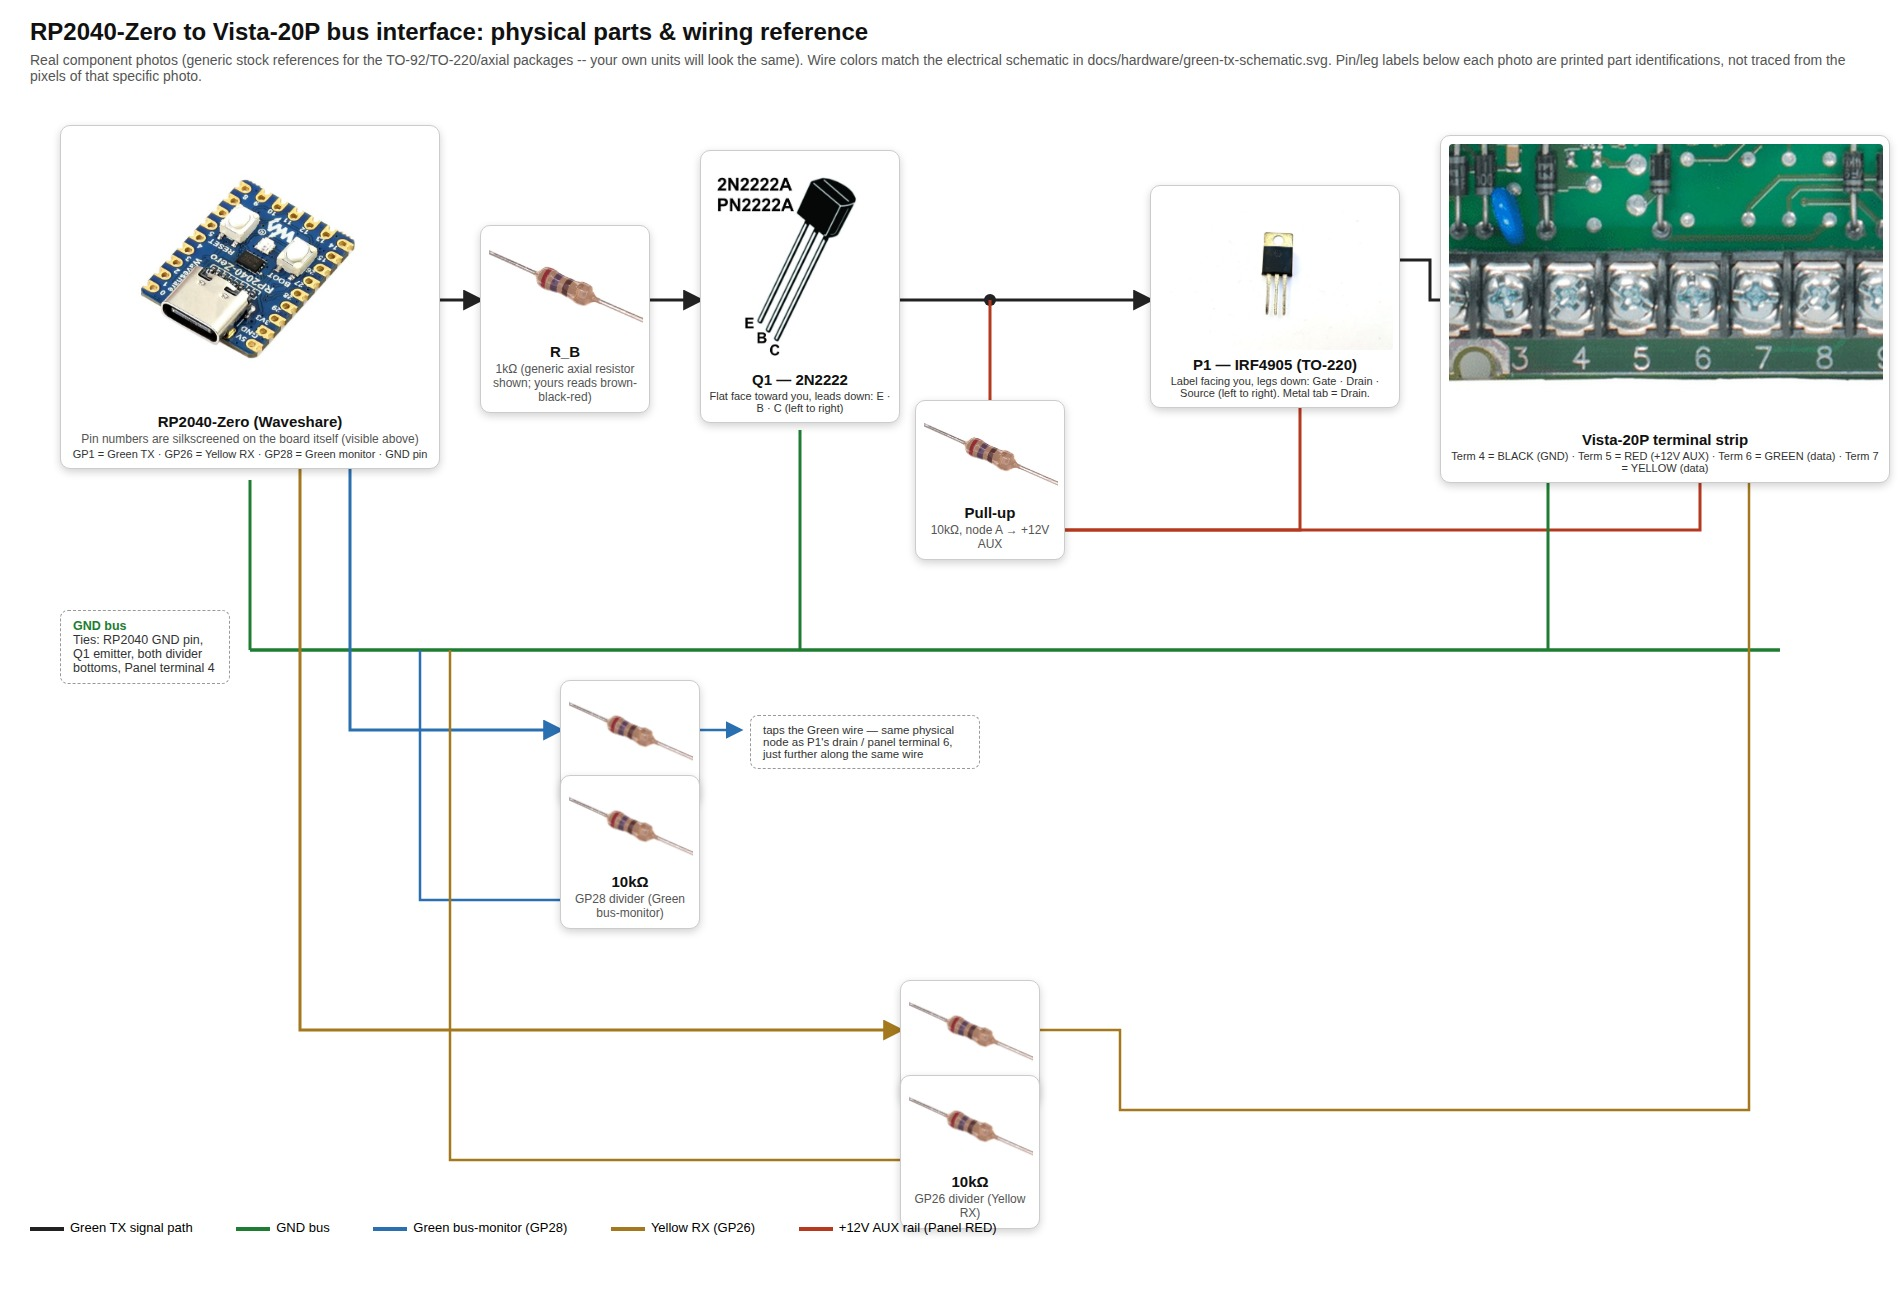
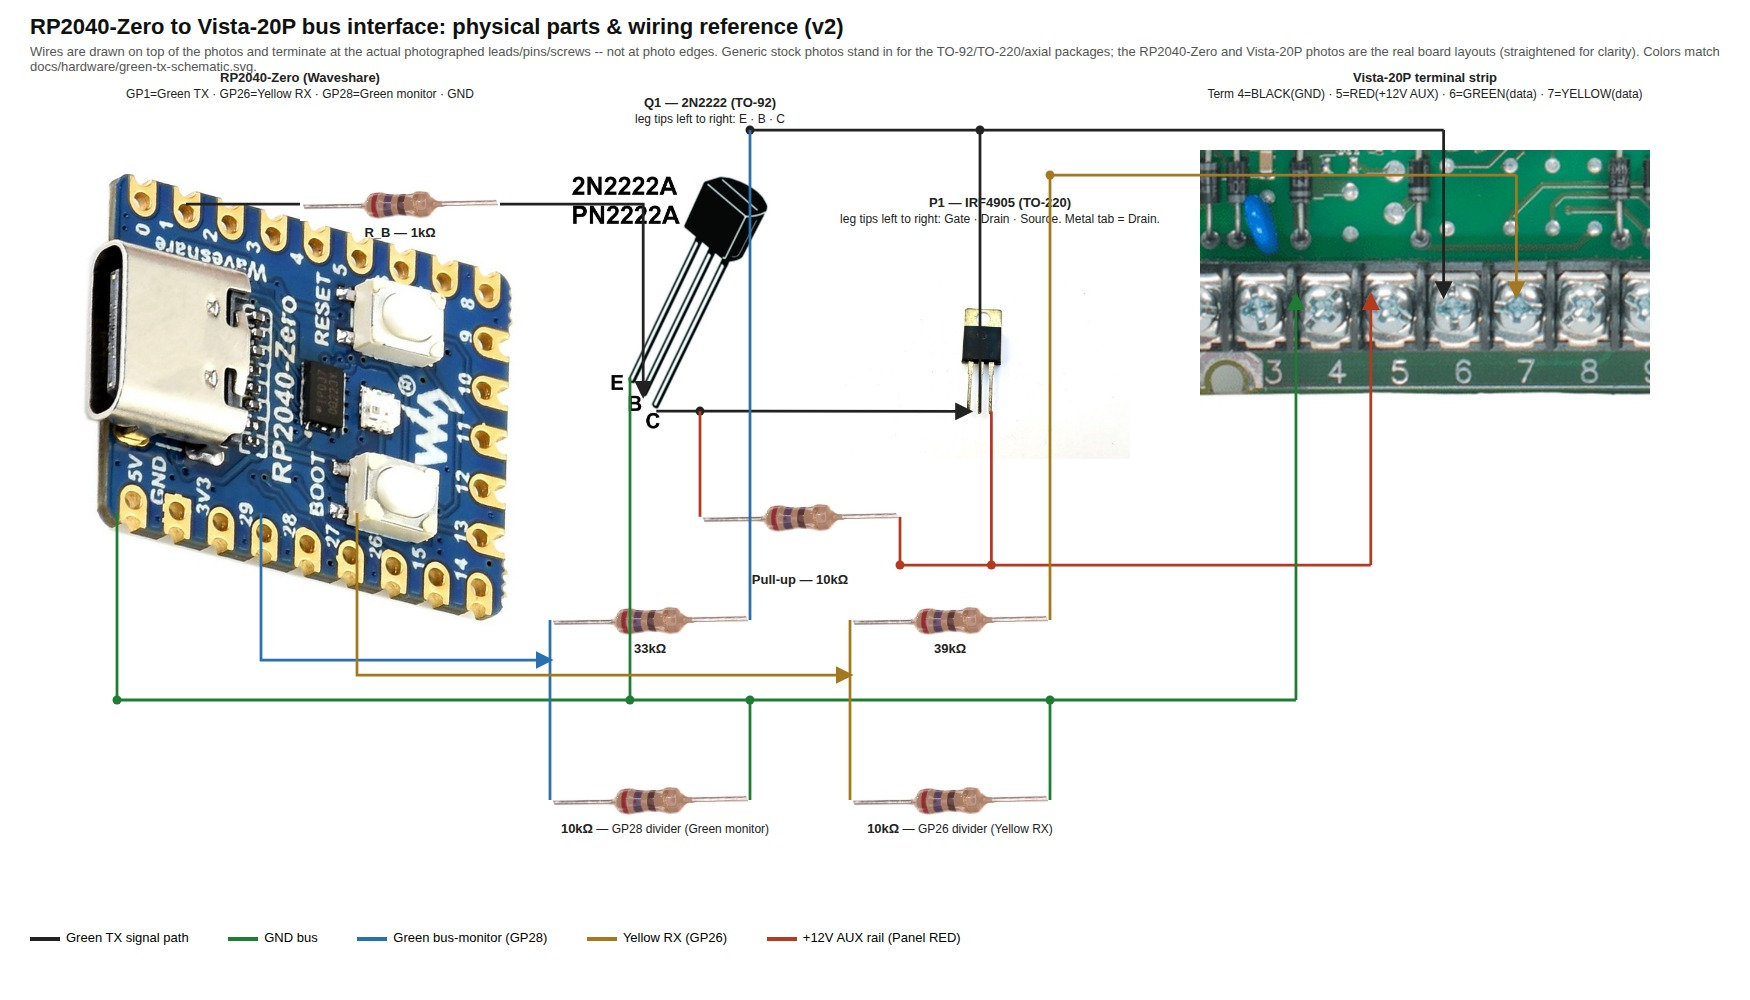
Rework photo reference diagram: wires terminate at actual leads (#81)
v1 drew wires stopping at photo bounding-box edges, not the parts
themselves. Rebuild with pixel-precise coordinates: straighten the
RP2040-Zero board and axial resistor photos, locate each component's
actual leg tips / pin holes / screw terminals, and draw wires on top
of the photos terminating exactly at those points (2N2222 E/B/C tips,
IRF4905 G/D/S tips, RP2040 GP1/GP26/GP28/GND pin holes, Vista-20P
terminal screws 4-7, resistor lead ends).

Claude-Session: https://claude.ai/code/session_01LoZdpHVGNxDdSZK8Eq1p6C

Changed region(s): [[0.0, 0.0, 1.0, 0.744], [0.0, 0.744, 0.9257, 0.961], [0.216, 0.868, 0.4629, 0.899]]

diff --git a/docs/hardware/green-tx-photo-reference.html b/docs/hardware/green-tx-photo-reference.html
@@ -6,174 +6,114 @@
   * { box-sizing: border-box; }
   body {
     margin: 0;
-    width: 1900px;
-    height: 1300px;
+    width: 1750px;
+    height: 1000px;
     background: #ffffff;
     font-family: Helvetica, Arial, sans-serif;
     position: relative;
   }
-  .title { position: absolute; left: 30px; top: 18px; font-size: 24px; font-weight: bold; color: #111; }
-  .subtitle { position: absolute; left: 30px; top: 52px; font-size: 14px; color: #555; width: 1840px; }
-  .card {
-    position: absolute;
-    background: #fff;
-    border: 1.5px solid #ccc;
-    border-radius: 10px;
-    box-shadow: 0 3px 8px rgba(0,0,0,0.18);
-    padding: 8px;
-    text-align: center;
-  }
-  .card img { display: block; border-radius: 4px; }
-  .card .name { font-weight: bold; font-size: 15px; color: #111; margin-top: 6px; }
-  .card .sub { font-size: 12px; color: #555; margin-top: 2px; }
-  .card .pin { font-size: 11px; color: #333; margin-top: 2px; }
-  .note { position: absolute; background: #fff; border: 1.5px dashed #999; border-radius: 8px; padding: 8px 12px; font-size: 12.5px; color: #333; text-align: left; }
-  svg.wires { position: absolute; left: 0; top: 0; width: 1900px; height: 1300px; }
-  .legend { position: absolute; left: 30px; top: 1220px; font-size: 13px; }
-  .legend .row { display: inline-block; margin-right: 40px; }
-  .legend .swatch { display: inline-block; width: 34px; height: 4px; vertical-align: middle; margin-right: 6px; }
+  .title { position: absolute; left: 30px; top: 14px; font-size: 22px; font-weight: bold; color: #111; }
+  .subtitle { position: absolute; left: 30px; top: 44px; font-size: 13px; color: #555; width: 1700px; }
+  img.part { position: absolute; display: block; }
+  .label { position: absolute; font-size: 12px; color: #222; text-align: center; line-height: 1.3; }
+  .label b { font-size: 13px; }
+  .legend { position: absolute; left: 30px; top: 930px; font-size: 13px; }
+  .legend .row { display: inline-block; margin-right: 36px; }
+  .legend .swatch { display: inline-block; width: 30px; height: 4px; vertical-align: middle; margin-right: 6px; }
+  svg.wires { position: absolute; left: 0; top: 0; width: 1750px; height: 1000px; pointer-events: none; }
 </style>
 </head>
 <body>
 
-  <div class="title">RP2040-Zero to Vista-20P bus interface: physical parts &amp; wiring reference</div>
-  <div class="subtitle">Real component photos (generic stock references for the TO-92/TO-220/axial packages -- your own units will look the same). Wire colors match the electrical schematic in docs/hardware/green-tx-schematic.svg. Pin/leg labels below each photo are printed part identifications, not traced from the pixels of that specific photo.</div>
+  <div class="title">RP2040-Zero to Vista-20P bus interface: physical parts &amp; wiring reference (v2)</div>
+  <div class="subtitle">Wires are drawn on top of the photos and terminate at the actual photographed leads/pins/screws -- not at photo edges. Generic stock photos stand in for the TO-92/TO-220/axial packages; the RP2040-Zero and Vista-20P photos are the real board layouts (straightened for clarity). Colors match docs/hardware/green-tx-schematic.svg.</div>
 
-  <svg class="wires" viewBox="0 0 1900 1300">
+  <!-- ===== Photos (drawn first, wires layer on top of them) ===== -->
+
+  <img class="part" src="photos/rp2040-zero.jpg" style="left:60px; top:150px; width:480px; height:498px;">
+  <div class="label" style="left:60px; top:70px; width:480px;"><b>RP2040-Zero (Waveshare)</b><br>GP1=Green TX &middot; GP26=Yellow RX &middot; GP28=Green monitor &middot; GND</div>
+
+  <img class="part" src="photos/resistor.jpg" style="left:300px; top:187px; width:200px; height:33.6px;">
+  <div class="label" style="left:300px; top:225px; width:200px;"><b>R_B &mdash; 1k&#937;</b></div>
+
+  <img class="part" src="photos/2n2222.jpg" style="left:560px; top:150px; width:260px; height:291.8px;">
+  <div class="label" style="left:540px; top:95px; width:340px;"><b>Q1 &mdash; 2N2222 (TO-92)</b><br>leg tips left to right: E &middot; B &middot; C</div>
+
+  <img class="part" src="photos/resistor.jpg" style="left:700px; top:500px; width:200px; height:33.6px;">
+  <div class="label" style="left:700px; top:572px; width:200px;"><b>Pull-up &mdash; 10k&#937;</b></div>
+
+  <img class="part" src="photos/to220-mosfet.jpg" style="left:830px; top:259px; width:300px; height:199.8px;">
+  <div class="label" style="left:825px; top:195px; width:350px;"><b>P1 &mdash; IRF4905 (TO-220)</b><br>leg tips left to right: Gate &middot; Drain &middot; Source. Metal tab = Drain.</div>
+
+  <img class="part" src="photos/vista20p-terminals.jpg" style="left:1200px; top:150px; width:450px; height:291.2px;">
+  <div class="label" style="left:1200px; top:70px; width:450px;"><b>Vista-20P terminal strip</b><br>Term 4=BLACK(GND) &middot; 5=RED(+12V AUX) &middot; 6=GREEN(data) &middot; 7=YELLOW(data)</div>
+
+  <img class="part" src="photos/resistor.jpg" style="left:550px; top:603.2px; width:200px; height:33.6px;">
+  <div class="label" style="left:550px; top:641px; width:200px;"><b>33k&#937;</b></div>
+  <img class="part" src="photos/resistor.jpg" style="left:550px; top:783.2px; width:200px; height:33.6px;">
+  <div class="label" style="left:550px; top:821px; width:230px;"><b>10k&#937;</b> &mdash; GP28 divider (Green monitor)</div>
+
+  <img class="part" src="photos/resistor.jpg" style="left:850px; top:603.2px; width:200px; height:33.6px;">
+  <div class="label" style="left:850px; top:641px; width:200px;"><b>39k&#937;</b></div>
+  <img class="part" src="photos/resistor.jpg" style="left:850px; top:783.2px; width:200px; height:33.6px;">
+  <div class="label" style="left:850px; top:821px; width:220px;"><b>10k&#937;</b> &mdash; GP26 divider (Yellow RX)</div>
+
+  <!-- ===== Wires (drawn ON TOP of photos, terminating exactly at leg/pin/screw pixels) ===== -->
+  <svg class="wires" viewBox="0 0 1750 1000">
     <defs>
-      <marker id="a" viewBox="0 0 10 10" refX="8" refY="5" markerWidth="7" markerHeight="7" orient="auto-start-reverse">
-        <path d="M0,0 L10,5 L0,10 z" fill="#222"/>
-      </marker>
-      <marker id="aGreen" viewBox="0 0 10 10" refX="8" refY="5" markerWidth="7" markerHeight="7" orient="auto-start-reverse">
-        <path d="M0,0 L10,5 L0,10 z" fill="#1e7d32"/>
-      </marker>
-      <marker id="aBlue" viewBox="0 0 10 10" refX="8" refY="5" markerWidth="7" markerHeight="7" orient="auto-start-reverse">
-        <path d="M0,0 L10,5 L0,10 z" fill="#2a6fb0"/>
-      </marker>
-      <marker id="aGold" viewBox="0 0 10 10" refX="8" refY="5" markerWidth="7" markerHeight="7" orient="auto-start-reverse">
-        <path d="M0,0 L10,5 L0,10 z" fill="#a3781f"/>
-      </marker>
-      <marker id="aRed" viewBox="0 0 10 10" refX="8" refY="5" markerWidth="7" markerHeight="7" orient="auto-start-reverse">
-        <path d="M0,0 L10,5 L0,10 z" fill="#b5391f"/>
-      </marker>
+      <marker id="a" viewBox="0 0 10 10" refX="8" refY="5" markerWidth="6.5" markerHeight="6.5" orient="auto-start-reverse"><path d="M0,0 L10,5 L0,10 z" fill="#222"/></marker>
+      <marker id="aGreen" viewBox="0 0 10 10" refX="8" refY="5" markerWidth="6.5" markerHeight="6.5" orient="auto-start-reverse"><path d="M0,0 L10,5 L0,10 z" fill="#1e7d32"/></marker>
+      <marker id="aBlue" viewBox="0 0 10 10" refX="8" refY="5" markerWidth="6.5" markerHeight="6.5" orient="auto-start-reverse"><path d="M0,0 L10,5 L0,10 z" fill="#2a6fb0"/></marker>
+      <marker id="aGold" viewBox="0 0 10 10" refX="8" refY="5" markerWidth="6.5" markerHeight="6.5" orient="auto-start-reverse"><path d="M0,0 L10,5 L0,10 z" fill="#a3781f"/></marker>
+      <marker id="aRed" viewBox="0 0 10 10" refX="8" refY="5" markerWidth="6.5" markerHeight="6.5" orient="auto-start-reverse"><path d="M0,0 L10,5 L0,10 z" fill="#b5391f"/></marker>
     </defs>
 
-    <!-- ===== Main Green-TX row, all cards vertically centered on y=300 ===== -->
-    <!-- GP1 -> R_B -->
-    <path d="M 440,300 L 480,300" stroke="#222" stroke-width="3" fill="none" marker-end="url(#a)"/>
-    <!-- R_B -> Q1 base -->
-    <path d="M 650,300 L 700,300" stroke="#222" stroke-width="3" fill="none" marker-end="url(#a)"/>
-    <!-- Q1 collector -> node A -->
-    <path d="M 900,300 L 990,300" stroke="#222" stroke-width="3" fill="none"/>
-    <circle cx="990" cy="300" r="6" fill="#222"/>
-    <!-- node A -> P1 gate -->
-    <path d="M 990,300 L 1150,300" stroke="#222" stroke-width="3" fill="none" marker-end="url(#a)"/>
-    <!-- P1 drain -> panel GREEN terminal (term 6) -->
-    <path d="M 1400,260 L 1430,260 L 1430,300 L 1681,300" stroke="#222" stroke-width="3" fill="none" marker-end="url(#a)"/>
+    <!-- Black: Green TX signal path -->
+    <path d="M 186,204 L 300,204" stroke="#222" stroke-width="2.75" fill="none"/>
+    <path d="M 500,204 L 643.2,204 L 643.2,395.1" stroke="#222" stroke-width="2.75" fill="none" marker-end="url(#a)"/>
+    <path d="M 656.3,411.1 L 700,411.1" stroke="#222" stroke-width="2.75" fill="none"/>
+    <circle cx="700" cy="411.1" r="4.5" fill="#222"/>
+    <path d="M 700,411.1 L 969.5,411.4" stroke="#222" stroke-width="2.75" fill="none" marker-end="url(#a)"/>
+    <path d="M 980,412.6 L 980,130" stroke="#222" stroke-width="2.75" fill="none"/>
+    <path d="M 750,130 L 1443.6,130" stroke="#222" stroke-width="2.75" fill="none"/>
+    <circle cx="750" cy="130" r="4.5" fill="#222"/>
+    <circle cx="980" cy="130" r="4.5" fill="#222"/>
+    <path d="M 1443.6,130 L 1443.6,295.6" stroke="#222" stroke-width="2.75" fill="none" marker-end="url(#a)"/>
 
-    <!-- node A -> pull-up resistor -> +12V AUX rail (red), branch drawn below the main row -->
-    <path d="M 990,300 L 990,400" stroke="#b5391f" stroke-width="3" fill="none"/>
-    <path d="M 990,470 L 990,530" stroke="#b5391f" stroke-width="3" fill="none"/>
-    <path d="M 990,530 L 1700,530 L 1700,400 L 1601,400 L 1601,330" stroke="#b5391f" stroke-width="3" fill="none" marker-end="url(#aRed)"/>
-    <path d="M 990,530 L 1300,530 L 1300,340 L 1275,340" stroke="#b5391f" stroke-width="3" fill="none" marker-end="url(#aRed)"/>
+    <!-- Red: +12V AUX rail -->
+    <path d="M 700,411.1 L 700,516.8" stroke="#b5391f" stroke-width="2.75" fill="none"/>
+    <path d="M 900,516.8 L 900,565" stroke="#b5391f" stroke-width="2.75" fill="none"/>
+    <path d="M 991.4,411.4 L 991.4,565" stroke="#b5391f" stroke-width="2.75" fill="none"/>
+    <path d="M 900,565 L 1370.8,565" stroke="#b5391f" stroke-width="2.75" fill="none"/>
+    <circle cx="900" cy="565" r="4.5" fill="#b5391f"/>
+    <circle cx="991.4" cy="565" r="4.5" fill="#b5391f"/>
+    <path d="M 1370.8,565 L 1370.8,295.6" stroke="#b5391f" stroke-width="2.75" fill="none" marker-end="url(#aRed)"/>
 
-    <!-- Q1 emitter -> GND bus -->
-    <path d="M 800,430 L 800,650" stroke="#1e7d32" stroke-width="3" fill="none"/>
-    <!-- RP2040 GND pin -> GND bus -->
-    <path d="M 250,480 L 250,650" stroke="#1e7d32" stroke-width="3" fill="none"/>
-    <!-- GND bus horizontal -->
-    <path d="M 250,650 L 1780,650" stroke="#1e7d32" stroke-width="3.5" fill="none"/>
-    <!-- GND bus -> panel BLACK terminal (term 4) -->
-    <path d="M 1548,650 L 1548,340" stroke="#1e7d32" stroke-width="3" fill="none" marker-end="url(#aGreen)"/>
+    <!-- Green: GND bus -->
+    <path d="M 117,513 L 117,700" stroke="#1e7d32" stroke-width="2.75" fill="none"/>
+    <path d="M 630,377.6 L 630,700" stroke="#1e7d32" stroke-width="2.75" fill="none"/>
+    <path d="M 117,700 L 1295.96,700" stroke="#1e7d32" stroke-width="3" fill="none"/>
+    <circle cx="117" cy="700" r="4.5" fill="#1e7d32"/>
+    <circle cx="630" cy="700" r="4.5" fill="#1e7d32"/>
+    <circle cx="750" cy="700" r="4.5" fill="#1e7d32"/>
+    <circle cx="1050" cy="700" r="4.5" fill="#1e7d32"/>
+    <path d="M 750,800 L 750,700" stroke="#1e7d32" stroke-width="2.75" fill="none"/>
+    <path d="M 1050,800 L 1050,700" stroke="#1e7d32" stroke-width="2.75" fill="none"/>
+    <path d="M 1295.96,700 L 1295.96,295.6" stroke="#1e7d32" stroke-width="2.75" fill="none" marker-end="url(#aGreen)"/>
 
-    <!-- GP28 -> Green bus-monitor divider -->
-    <path d="M 350,430 L 350,730 L 560,730" stroke="#2a6fb0" stroke-width="3" fill="none" marker-end="url(#aBlue)"/>
-    <!-- divider top resistor -> shared Green net (ties back to panel GREEN, same node as P1 drain) -->
-    <path d="M 700,730 L 740,730" stroke="#2a6fb0" stroke-width="2.5" fill="none" marker-end="url(#aBlue)"/>
-    <!-- divider bottom resistor -> GND bus -->
-    <path d="M 630,810 L 630,900 L 420,900 L 420,650" stroke="#2a6fb0" stroke-width="2.5" fill="none"/>
+    <!-- Blue: GP28 / Green bus-monitor divider -->
+    <path d="M 261,513 L 261,660 L 550,660" stroke="#2a6fb0" stroke-width="2.75" fill="none" marker-end="url(#aBlue)"/>
+    <path d="M 550,620 L 550,800" stroke="#2a6fb0" stroke-width="2.75" fill="none"/>
+    <path d="M 750,620 L 750,130" stroke="#2a6fb0" stroke-width="2.75" fill="none"/>
 
-    <!-- GP26 -> Yellow RX divider -->
-    <path d="M 300,430 L 300,1030 L 900,1030" stroke="#a3781f" stroke-width="3" fill="none" marker-end="url(#aGold)"/>
-    <!-- divider top resistor -> Yellow rail -> panel YELLOW terminal (term 7) -->
-    <path d="M 1040,1030 L 1120,1030 L 1120,1110 L 1749,1110 L 1749,340" stroke="#a3781f" stroke-width="2.5" fill="none" marker-end="url(#aGold)"/>
-    <!-- divider bottom resistor -> GND bus -->
-    <path d="M 970,1110 L 970,1160 L 450,1160 L 450,650" stroke="#a3781f" stroke-width="2.5" fill="none"/>
+    <!-- Gold: GP26 / Yellow RX divider -->
+    <path d="M 357,513 L 357,675 L 850,675" stroke="#a3781f" stroke-width="2.75" fill="none" marker-end="url(#aGold)"/>
+    <path d="M 850,620 L 850,800" stroke="#a3781f" stroke-width="2.75" fill="none"/>
+    <path d="M 1050,620 L 1050,175" stroke="#a3781f" stroke-width="2.75" fill="none"/>
+    <path d="M 1050,175 L 1516.4,175" stroke="#a3781f" stroke-width="2.75" fill="none"/>
+    <circle cx="1050" cy="175" r="4.5" fill="#a3781f"/>
+    <path d="M 1516.4,175 L 1516.4,295.6" stroke="#a3781f" stroke-width="2.75" fill="none" marker-end="url(#aGold)"/>
   </svg>
-
-  <!-- RP2040-Zero board -->
-  <div class="card" style="left:60px; top:125px; width:380px;">
-    <img src="photos/rp2040-zero.jpg" width="364" height="273">
-    <div class="name">RP2040-Zero (Waveshare)</div>
-    <div class="sub">Pin numbers are silkscreened on the board itself (visible above)</div>
-    <div class="pin">GP1 = Green TX &middot; GP26 = Yellow RX &middot; GP28 = Green monitor &middot; GND pin</div>
-  </div>
-
-  <!-- R_B resistor -->
-  <div class="card" style="left:480px; top:225px; width:170px;">
-    <img src="photos/resistor.jpg" width="154" height="103">
-    <div class="name">R_B</div>
-    <div class="sub">1k&#937; (generic axial resistor shown; yours reads brown-black-red)</div>
-  </div>
-
-  <!-- Q1 -->
-  <div class="card" style="left:700px; top:150px; width:200px;">
-    <img src="photos/2n2222.jpg" width="184" height="206">
-    <div class="name">Q1 &mdash; 2N2222</div>
-    <div class="pin">Flat face toward you, leads down: E &middot; B &middot; C (left to right)</div>
-  </div>
-
-  <!-- Pull-up resistor (node A branch, below main row) -->
-  <div class="card" style="left:915px; top:400px; width:150px;">
-    <img src="photos/resistor.jpg" width="134" height="89">
-    <div class="name">Pull-up</div>
-    <div class="sub">10k&#937;, node A &rarr; +12V AUX</div>
-  </div>
-
-  <!-- P1 -->
-  <div class="card" style="left:1150px; top:185px; width:250px;">
-    <img src="photos/to220-mosfet.jpg" width="234" height="156">
-    <div class="name">P1 &mdash; IRF4905 (TO-220)</div>
-    <div class="pin">Label facing you, legs down: Gate &middot; Drain &middot; Source (left to right). Metal tab = Drain.</div>
-  </div>
-
-  <!-- Panel terminal strip -->
-  <div class="card" style="left:1440px; top:135px; width:450px;">
-    <img src="photos/vista20p-terminals.jpg" width="434" height="281">
-    <div class="name">Vista-20P terminal strip</div>
-    <div class="pin">Term 4 = BLACK (GND) &middot; Term 5 = RED (+12V AUX) &middot; Term 6 = GREEN (data) &middot; Term 7 = YELLOW (data)</div>
-  </div>
-
-  <!-- GND bus label -->
-  <div class="note" style="left:60px; top:610px; width:170px;">
-    <div class="name" style="color:#1e7d32; font-weight:bold;">GND bus</div>
-    <div class="sub">Ties: RP2040 GND pin, Q1 emitter, both divider bottoms, Panel terminal 4</div>
-  </div>
-
-  <!-- Green bus-monitor divider (GP28) -->
-  <div class="card" style="left:560px; top:680px; width:140px;">
-    <img src="photos/resistor.jpg" width="124" height="83">
-    <div class="name">33k&#937;</div>
-  </div>
-  <div class="note" style="left:750px; top:715px; width:230px; font-size:11.5px;">
-    taps the Green wire &mdash; same physical node as P1's drain / panel terminal 6, just further along the same wire
-  </div>
-  <div class="card" style="left:560px; top:775px; width:140px;">
-    <img src="photos/resistor.jpg" width="124" height="83">
-    <div class="name">10k&#937;</div>
-    <div class="sub">GP28 divider (Green bus-monitor)</div>
-  </div>
-
-  <!-- Yellow RX divider (GP26) -->
-  <div class="card" style="left:900px; top:980px; width:140px;">
-    <img src="photos/resistor.jpg" width="124" height="83">
-    <div class="name">39k&#937;</div>
-  </div>
-  <div class="card" style="left:900px; top:1075px; width:140px;">
-    <img src="photos/resistor.jpg" width="124" height="83">
-    <div class="name">10k&#937;</div>
-    <div class="sub">GP26 divider (Yellow RX)</div>
-  </div>
 
   <div class="legend">
     <span class="row"><span class="swatch" style="background:#222;"></span>Green TX signal path</span>
